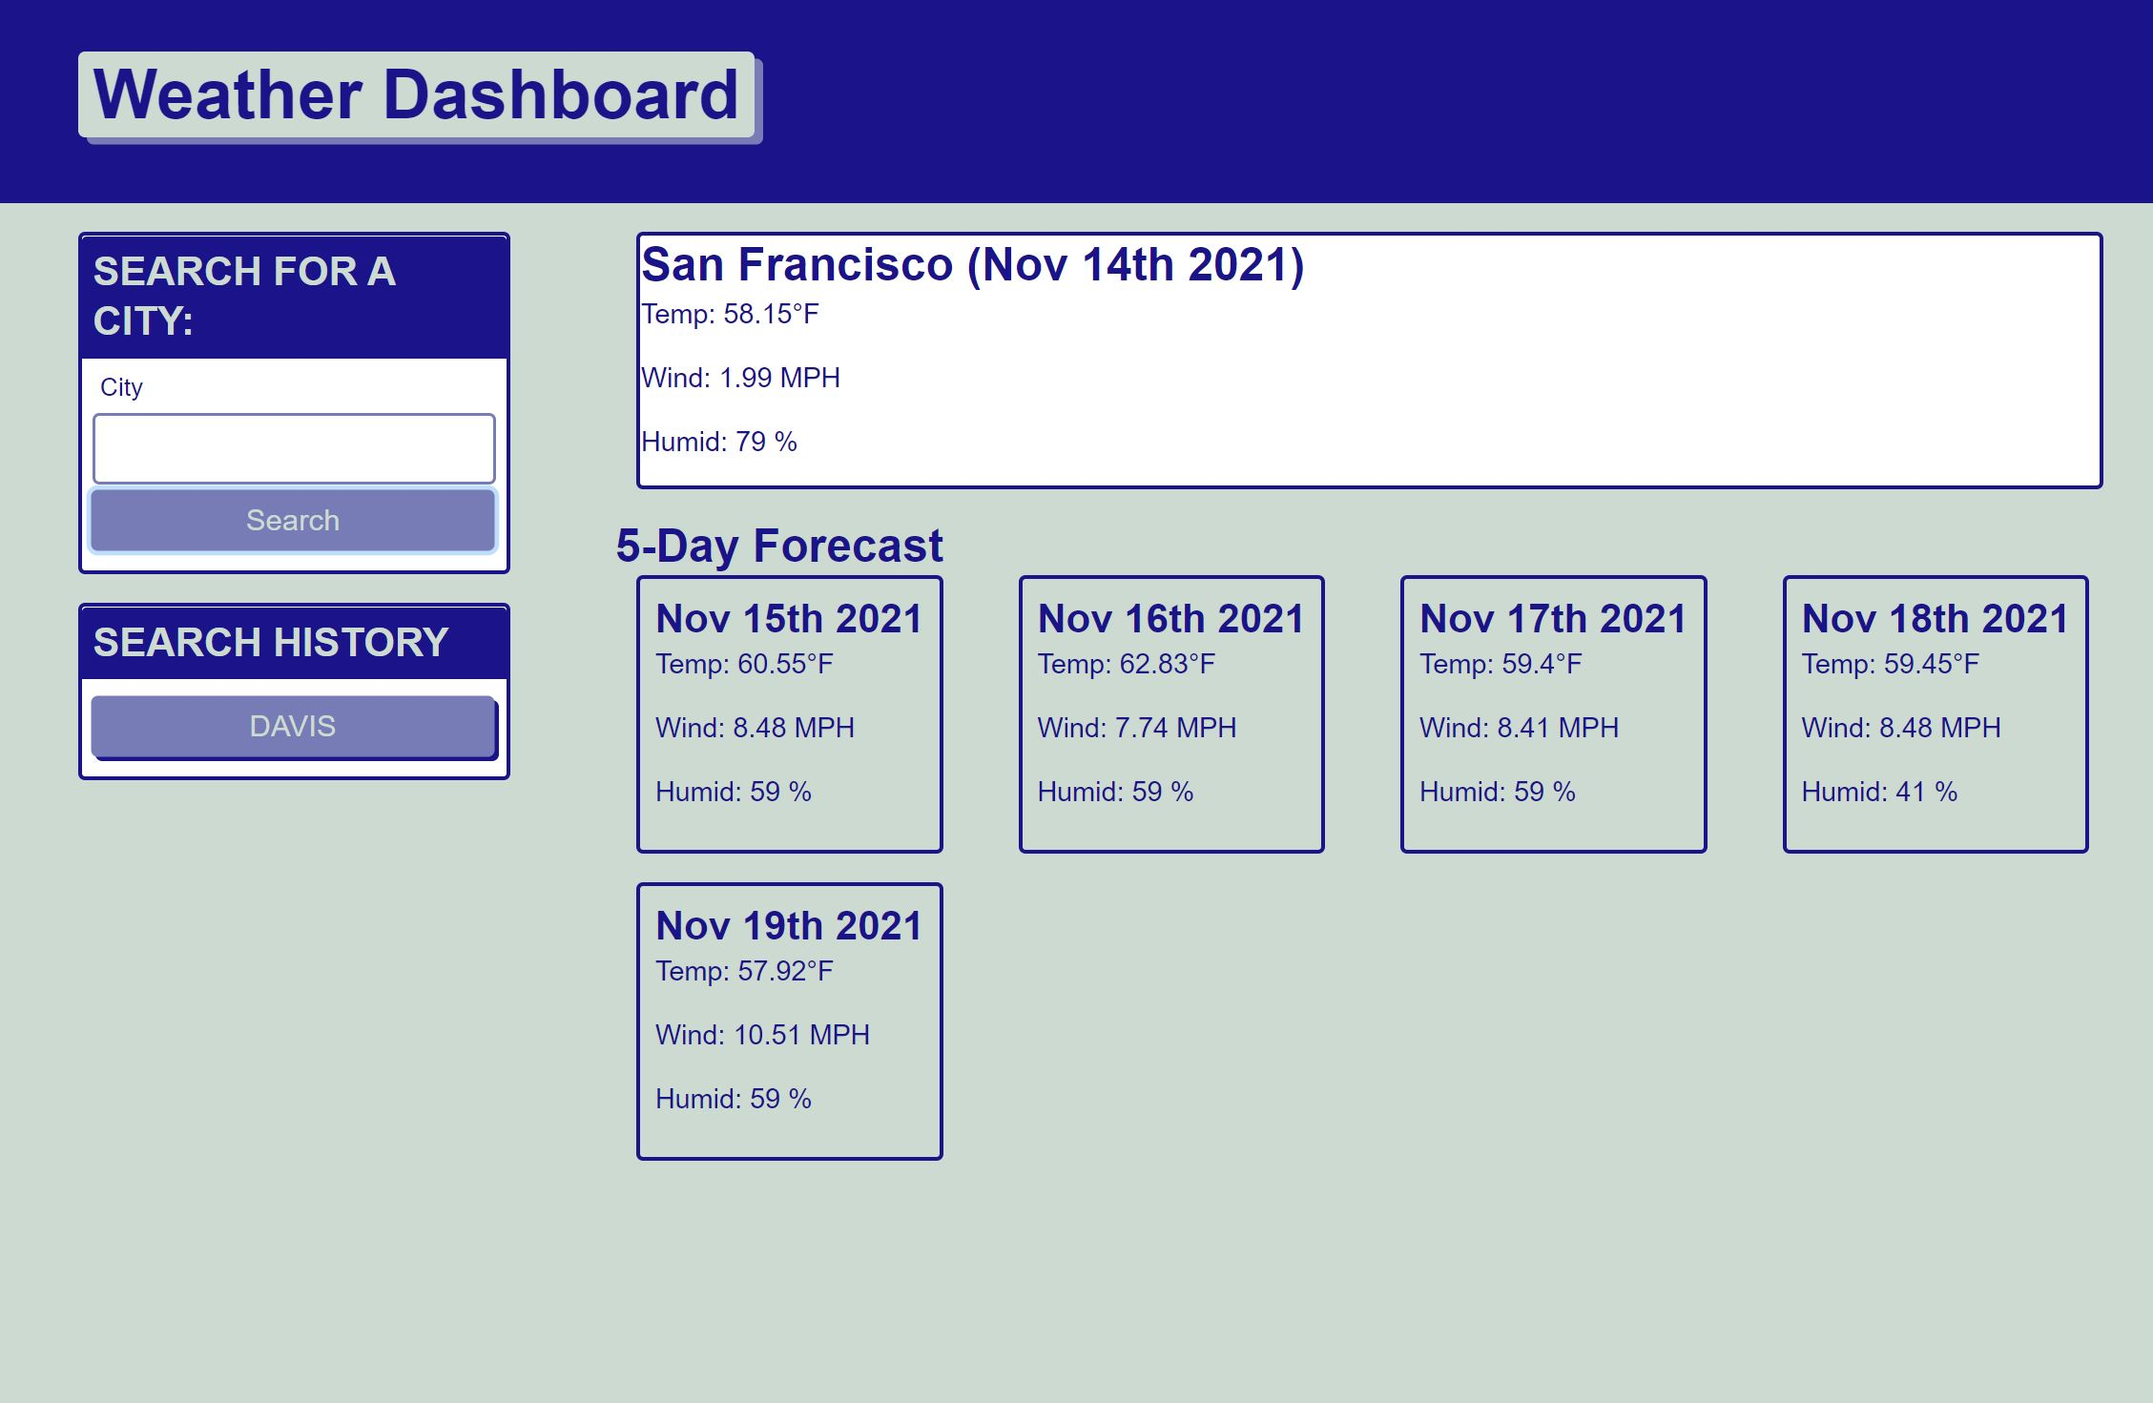
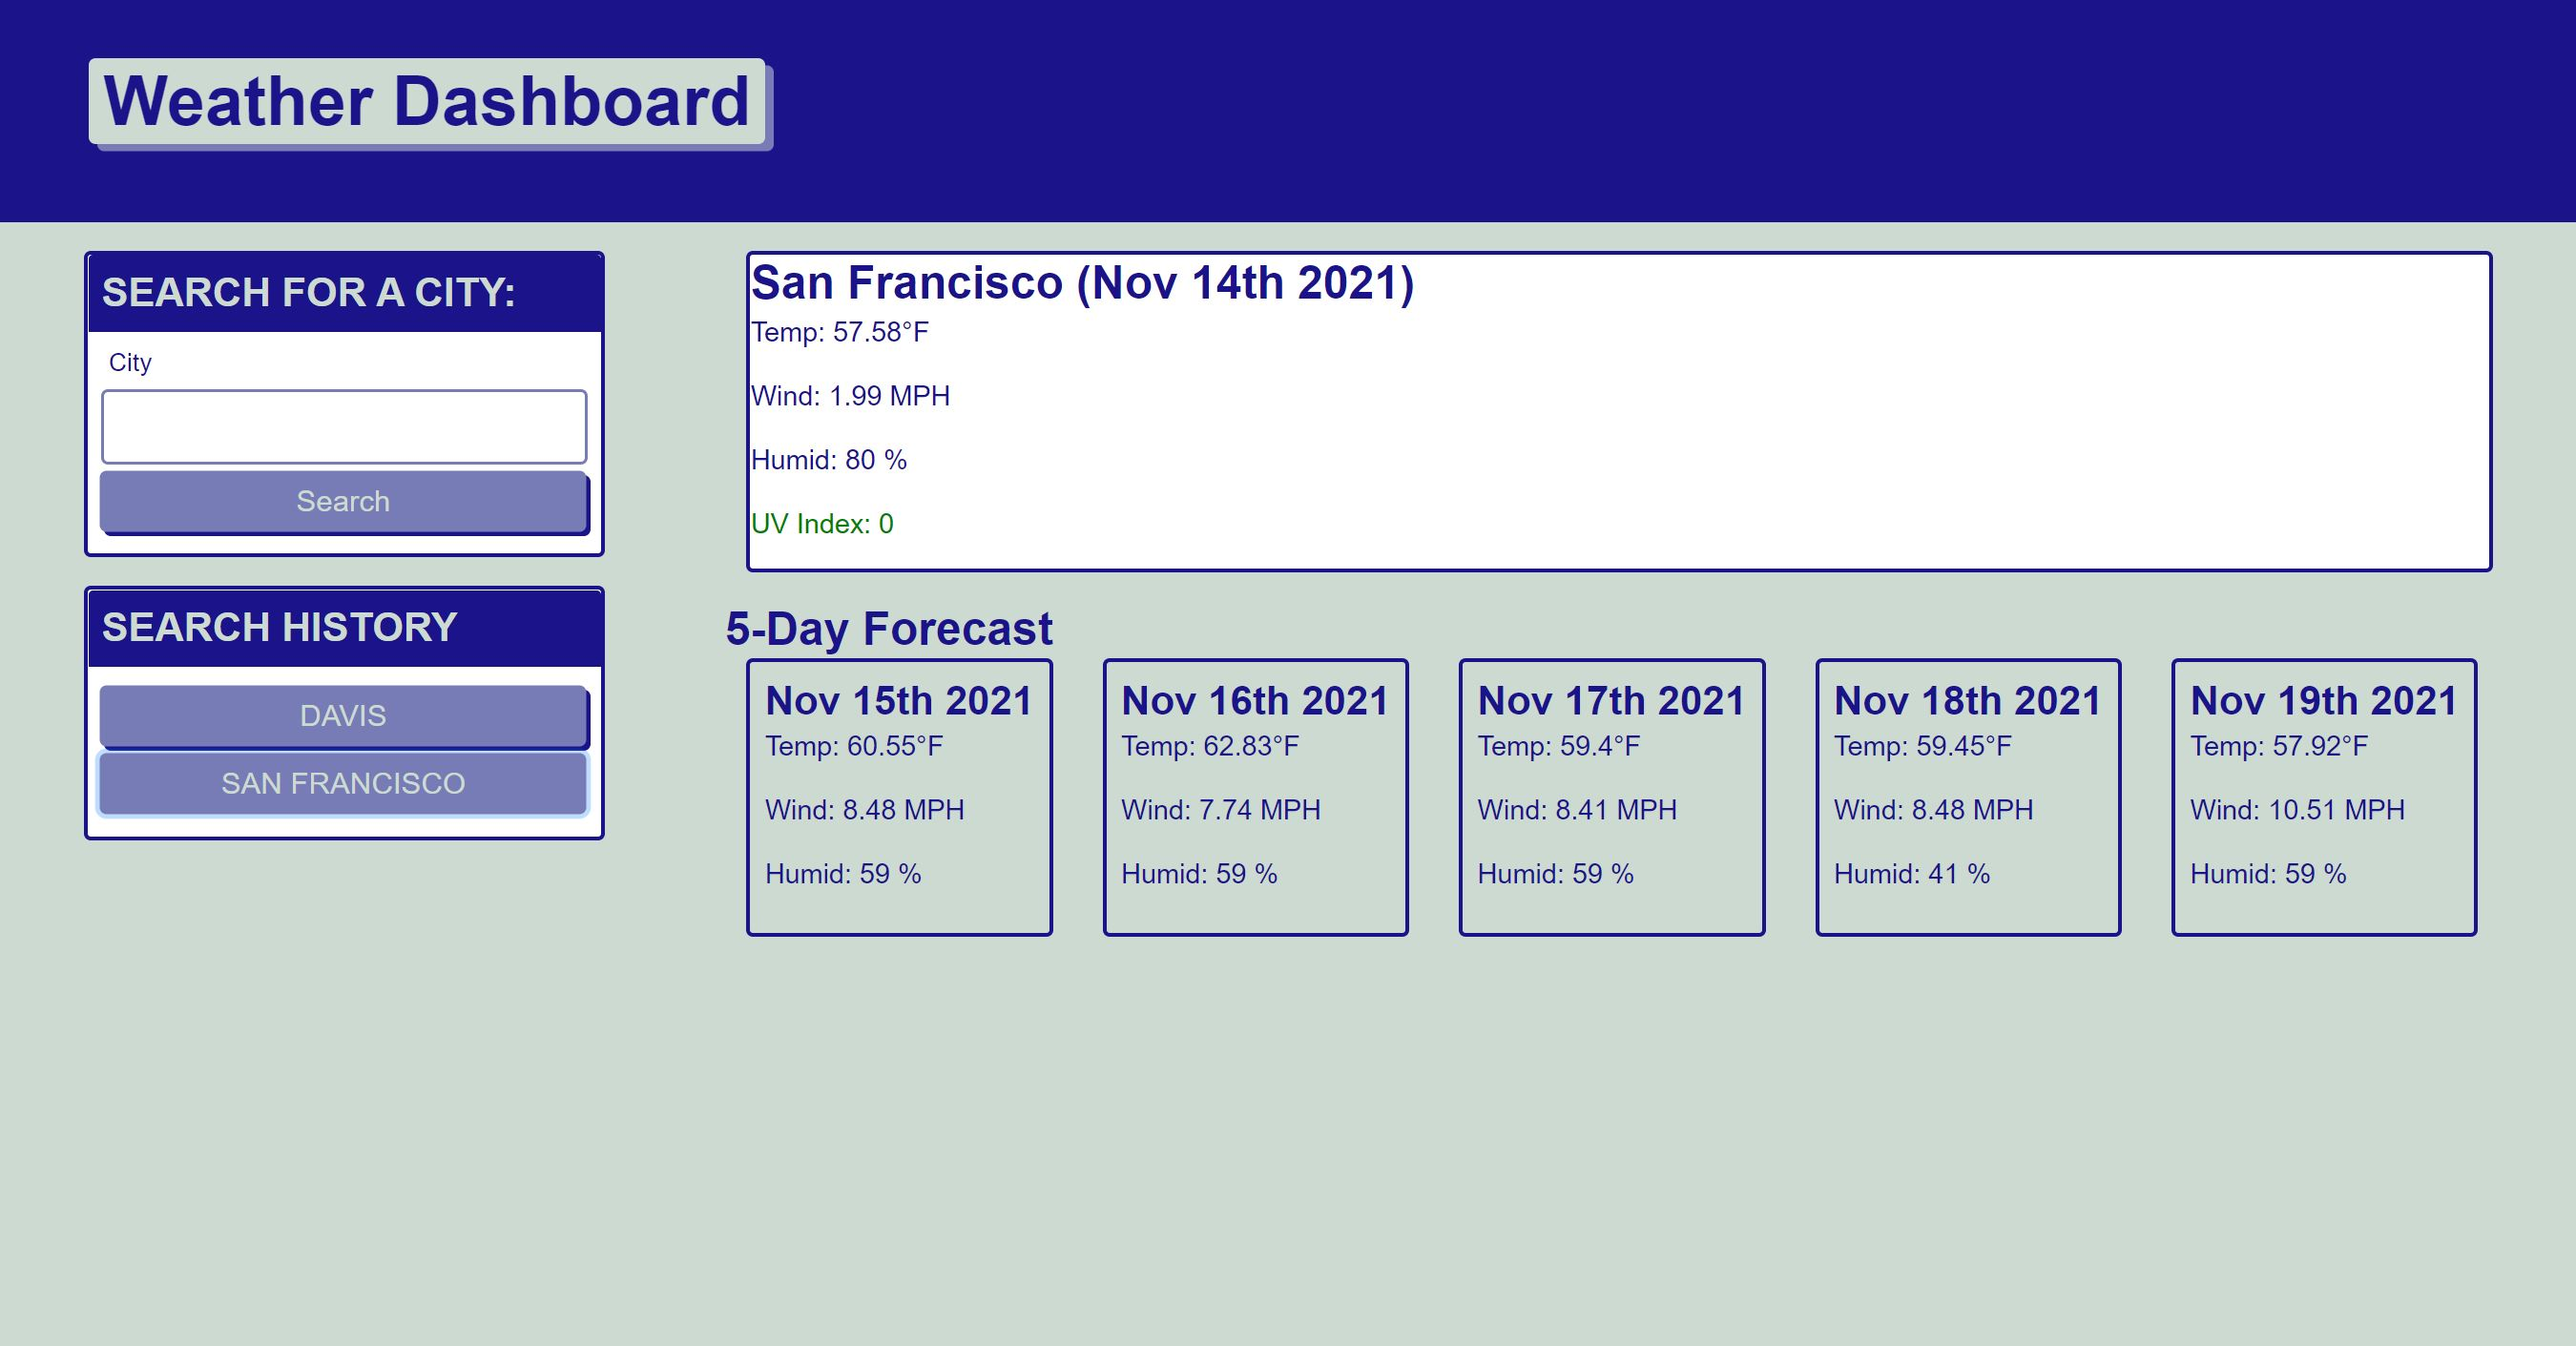
add uv index

diff --git a/assets/script.js b/assets/script.js
@@ -55,7 +55,7 @@ var getCityWeather = function (lat, lon, searchTerm, city) { //Find Lat and Lon
         if (response.ok) {
           //console.log(response);
           response.json().then(function (data) {
-            //console.log(data);
+            console.log(data);
             displayWeather(data, searchTerm);
           });
         } else {
@@ -100,14 +100,32 @@ var displayWeather = function (weather, searchTerm) {
     var temperature = document.createElement("p");
     var wind = document.createElement("p");
     var humid = document.createElement("p");
+    var uvi = document.createElement("p");
 
     temperature.textContent = "Temp: " + weather.current.temp + "°F";
     wind.textContent = "Wind: " + weather.current.wind_speed + " MPH";
     humid.textContent = "Humid: " + weather.current.humidity + " %";
+    uvi.textContent = "UV Index: " + weather.current.uvi;
+
+    if(weather.current.uvi <= 2){
+      uvi.setAttribute("style", "color: green;");
+    }else if(weather.current.uvi <= 5){
+      uvi.setAttribute("style", "color: yellow;");
+    }else if(weather.current.uvi <= 7){
+      uvi.setAttribute("style", "color: orange;");
+    }else if(weather.current.uvi <= 10){
+      uvi.setAttribute("style", "color: red;");
+    }else{
+      uvi.setAttribute("style", "color: violet;");
+    }
+
+
+
 
     weatherContainerEl.appendChild(temperature);
     weatherContainerEl.appendChild(wind);
     weatherContainerEl.appendChild(humid);
+    weatherContainerEl.appendChild(uvi);
 
 
     $("#weather-forecast").text("5-Day Forecast");
